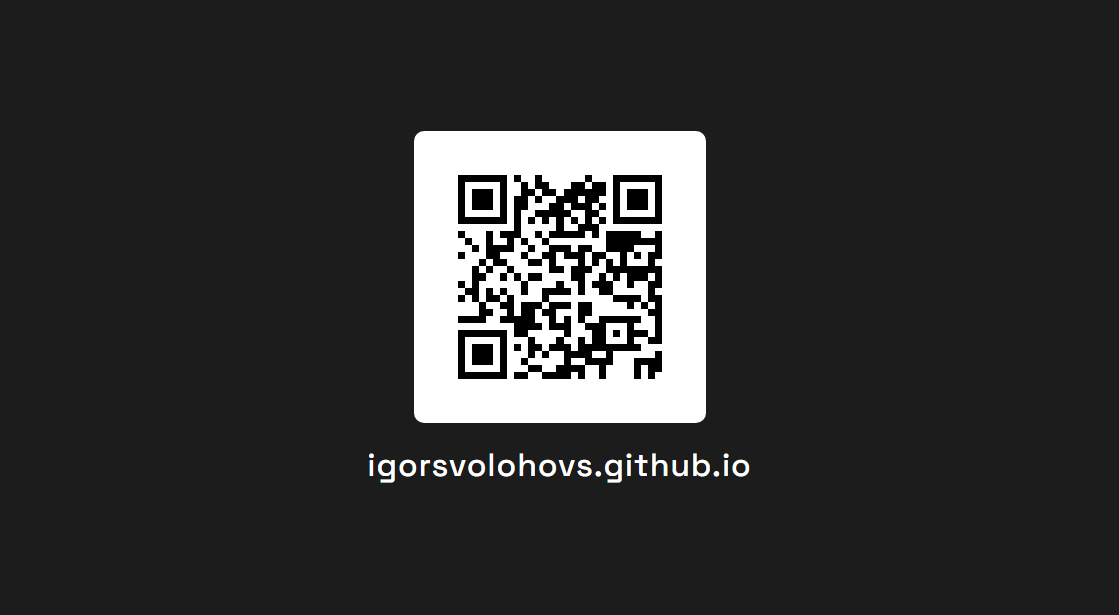
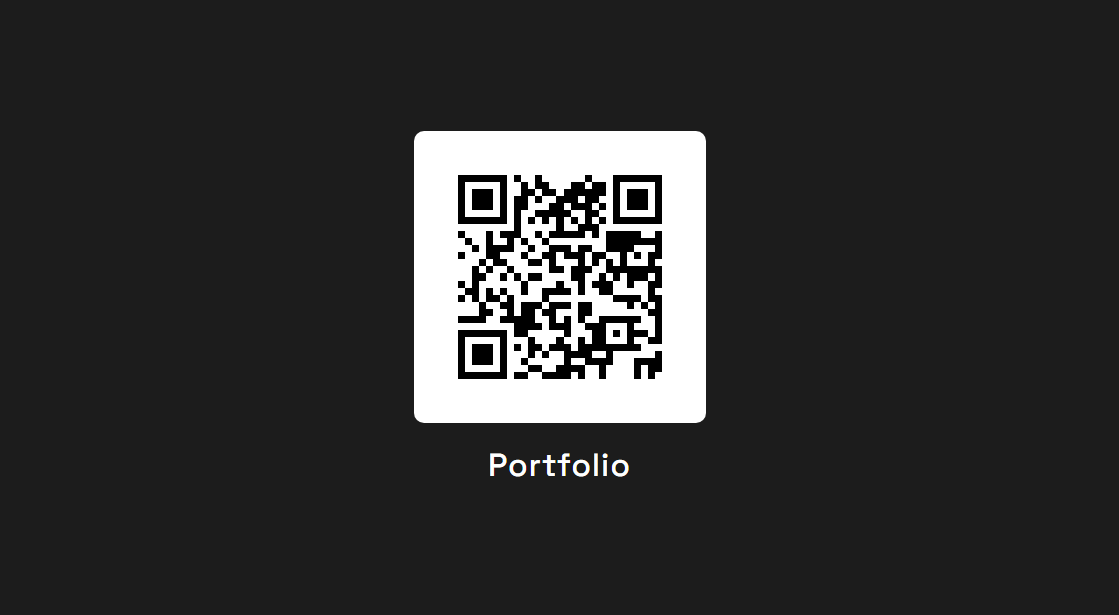
Change back-side QR caption to "portfolio" per Igor's final call
Domain text (igorsvolohovs.github.io) was accurate but Igor decided the
simpler word "portfolio" reads better on the card. Caption is now driven
by a single QR_CAPTION = "portfolio" constant, with case adapted per
variant via the existing caption_transform style hook to match each
variant's voice: uppercase for geometric/neon/big-type/accent/corporate/
blueprint, lowercase for minimal/terminal/robotics, capitalized for
qr-centerpiece.

Re-rendered all 10 backs and re-verified every QR still decodes to
https://igorsvolohovs.github.io/ with a fresh OpenCV pass.

Changed region(s): [[0.3038, 0.7415, 0.6685, 0.8033]]

diff --git a/experiments/render_all.py b/experiments/render_all.py
@@ -29,7 +29,7 @@ DATA = {
     "tags": ["AI Integration", "Computer Vision", "Robotics"],
 }
 QR_TARGET = "https://igorsvolohovs.github.io/"
-QR_CAPTION = "igorsvolohovs.github.io"  # must match QR_TARGET's actual domain - do not hardcode "github.com"
+QR_CAPTION = "portfolio"  # case is applied per-variant via caption_transform in BACK_STYLES
 
 
 def file_to_data_uri(path: Path, mime: str) -> str:
@@ -79,12 +79,12 @@ BACK_STYLES = {
     ),
     "variant_02_geometric": dict(
         bg="#0d1b2a", font_family="'Sora', sans-serif", font_href=GOOGLE_FONTS["sora"],
-        caption_weight="700", caption_tracking="2px",
+        caption_weight="700", caption_tracking="2px", caption_transform="uppercase",
         frame_extra="box-shadow: 0 0 0 3px #ffb703;",
     ),
     "variant_03_terminal": dict(
         bg="#282c34", font_family="'JetBrains Mono', monospace", font_href=GOOGLE_FONTS["jetbrains"],
-        caption_weight="500", caption_tracking="0px",
+        caption_weight="500", caption_tracking="0px", caption_transform="lowercase",
         extra_html='<div style="position:absolute;top:40px;left:50px;color:#5c6370;font-size:22px;">~/contact.ts</div>',
         frame_extra="border: 2px solid #3a3f4b;",
     ),
@@ -95,30 +95,30 @@ BACK_STYLES = {
             "radial-gradient(circle at 70% 90%, rgba(130,0,255,0.35), transparent 50%), #120019"
         ),
         font_family="'Sora', sans-serif", font_href=GOOGLE_FONTS["sora"],
-        caption_weight="700", caption_tracking="3px",
+        caption_weight="700", caption_tracking="3px", caption_transform="uppercase",
         frame_extra="box-shadow: 0 0 40px rgba(255,46,196,0.45), 0 0 70px rgba(76,233,255,0.3);",
     ),
     "variant_05_big_type": dict(
         bg="#000000", font_family="'Archivo', sans-serif", font_href=GOOGLE_FONTS["archivo"],
-        caption_weight="700", caption_tracking="1px",
+        caption_weight="700", caption_tracking="1px", caption_transform="uppercase",
     ),
     "variant_06_qr_centerpiece": dict(
         bg="#1c1c1c", font_family="'Space Grotesk', sans-serif", font_href=GOOGLE_FONTS["space_grotesk"],
-        caption_weight="500", caption_tracking="1px",
+        caption_weight="500", caption_tracking="1px", caption_transform="capitalize",
     ),
     "variant_07_accent_color": dict(
         bg="#141414", font_family="'Space Grotesk', sans-serif", font_href=GOOGLE_FONTS["space_grotesk"],
-        caption_weight="700", caption_tracking="1px",
+        caption_weight="700", caption_tracking="1px", caption_transform="uppercase",
         frame_extra="border: 3px solid #ff4d1c;",
     ),
     "variant_08_corporate": dict(
         bg="#0b2545", font_family="'IBM Plex Serif', serif", font_href=GOOGLE_FONTS["plex_serif"],
-        caption_weight="600", caption_tracking="3px",
+        caption_weight="600", caption_tracking="3px", caption_transform="uppercase",
         extra_html='<div style="position:relative;z-index:2;width:80px;height:1px;background:#c9a24b;margin-bottom:6px;"></div>',
     ),
     "variant_09_robotics": dict(
         bg="#081018", font_family="'Sora', sans-serif", font_href=GOOGLE_FONTS["sora"],
-        caption_weight="600", caption_tracking="1px",
+        caption_weight="600", caption_tracking="1px", caption_transform="lowercase",
         extra_css=(
             ".circuit{position:absolute;inset:0;opacity:.35;"
             "background-image:linear-gradient(#1a2c36 1px,transparent 1px),"
@@ -129,7 +129,7 @@ BACK_STYLES = {
     ),
     "variant_10_blueprint": dict(
         bg="#0e2a47", font_family="'IBM Plex Mono', monospace", font_href=GOOGLE_FONTS["plex_mono"],
-        caption_weight="500", caption_tracking="2px",
+        caption_weight="500", caption_tracking="2px", caption_transform="uppercase",
         extra_css=(
             ".gridbg{position:absolute;inset:0;"
             "background-image:linear-gradient(rgba(234,242,251,0.08) 1px,transparent 1px),"

diff --git a/experiments/README.md b/experiments/README.md
@@ -15,9 +15,9 @@ Following design feedback, the card content is now split across both sides:
   variant-flavored CTA line (e.g. "Portfolio on the back", `// portfolio ->
   flip card`, "SEE SHEET 2 / PORTFOLIO") - no printed URL, since a URL next
   to a QR code that encodes the same URL is redundant.
-- **Back** (previously blank): a single centered QR code with an
-  `igorsvolohovs.github.io` caption underneath (the QR's actual domain -
-  not "github.com", which would point somewhere else entirely), styled
+- **Back** (previously blank): a single centered QR code with a
+  "portfolio" caption underneath (case adapted per variant - e.g. all
+  caps for blueprint/corporate, lowercase for terminal/robotics), styled
   per-variant (background, font, frame) via a shared template so all ten
   stay visually consistent with their front.
 
